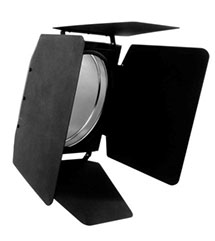
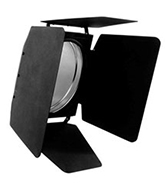
reign in the images size

diff --git a/css/layout.css b/css/layout.css
@@ -256,7 +256,7 @@ a.blog-post:hover{
 .box>img {
   position: relative;
   display: block;
-  width: 400px;
+  height: 200px;
   margin-left: auto;
   margin-right: auto;
   text-align: center;
